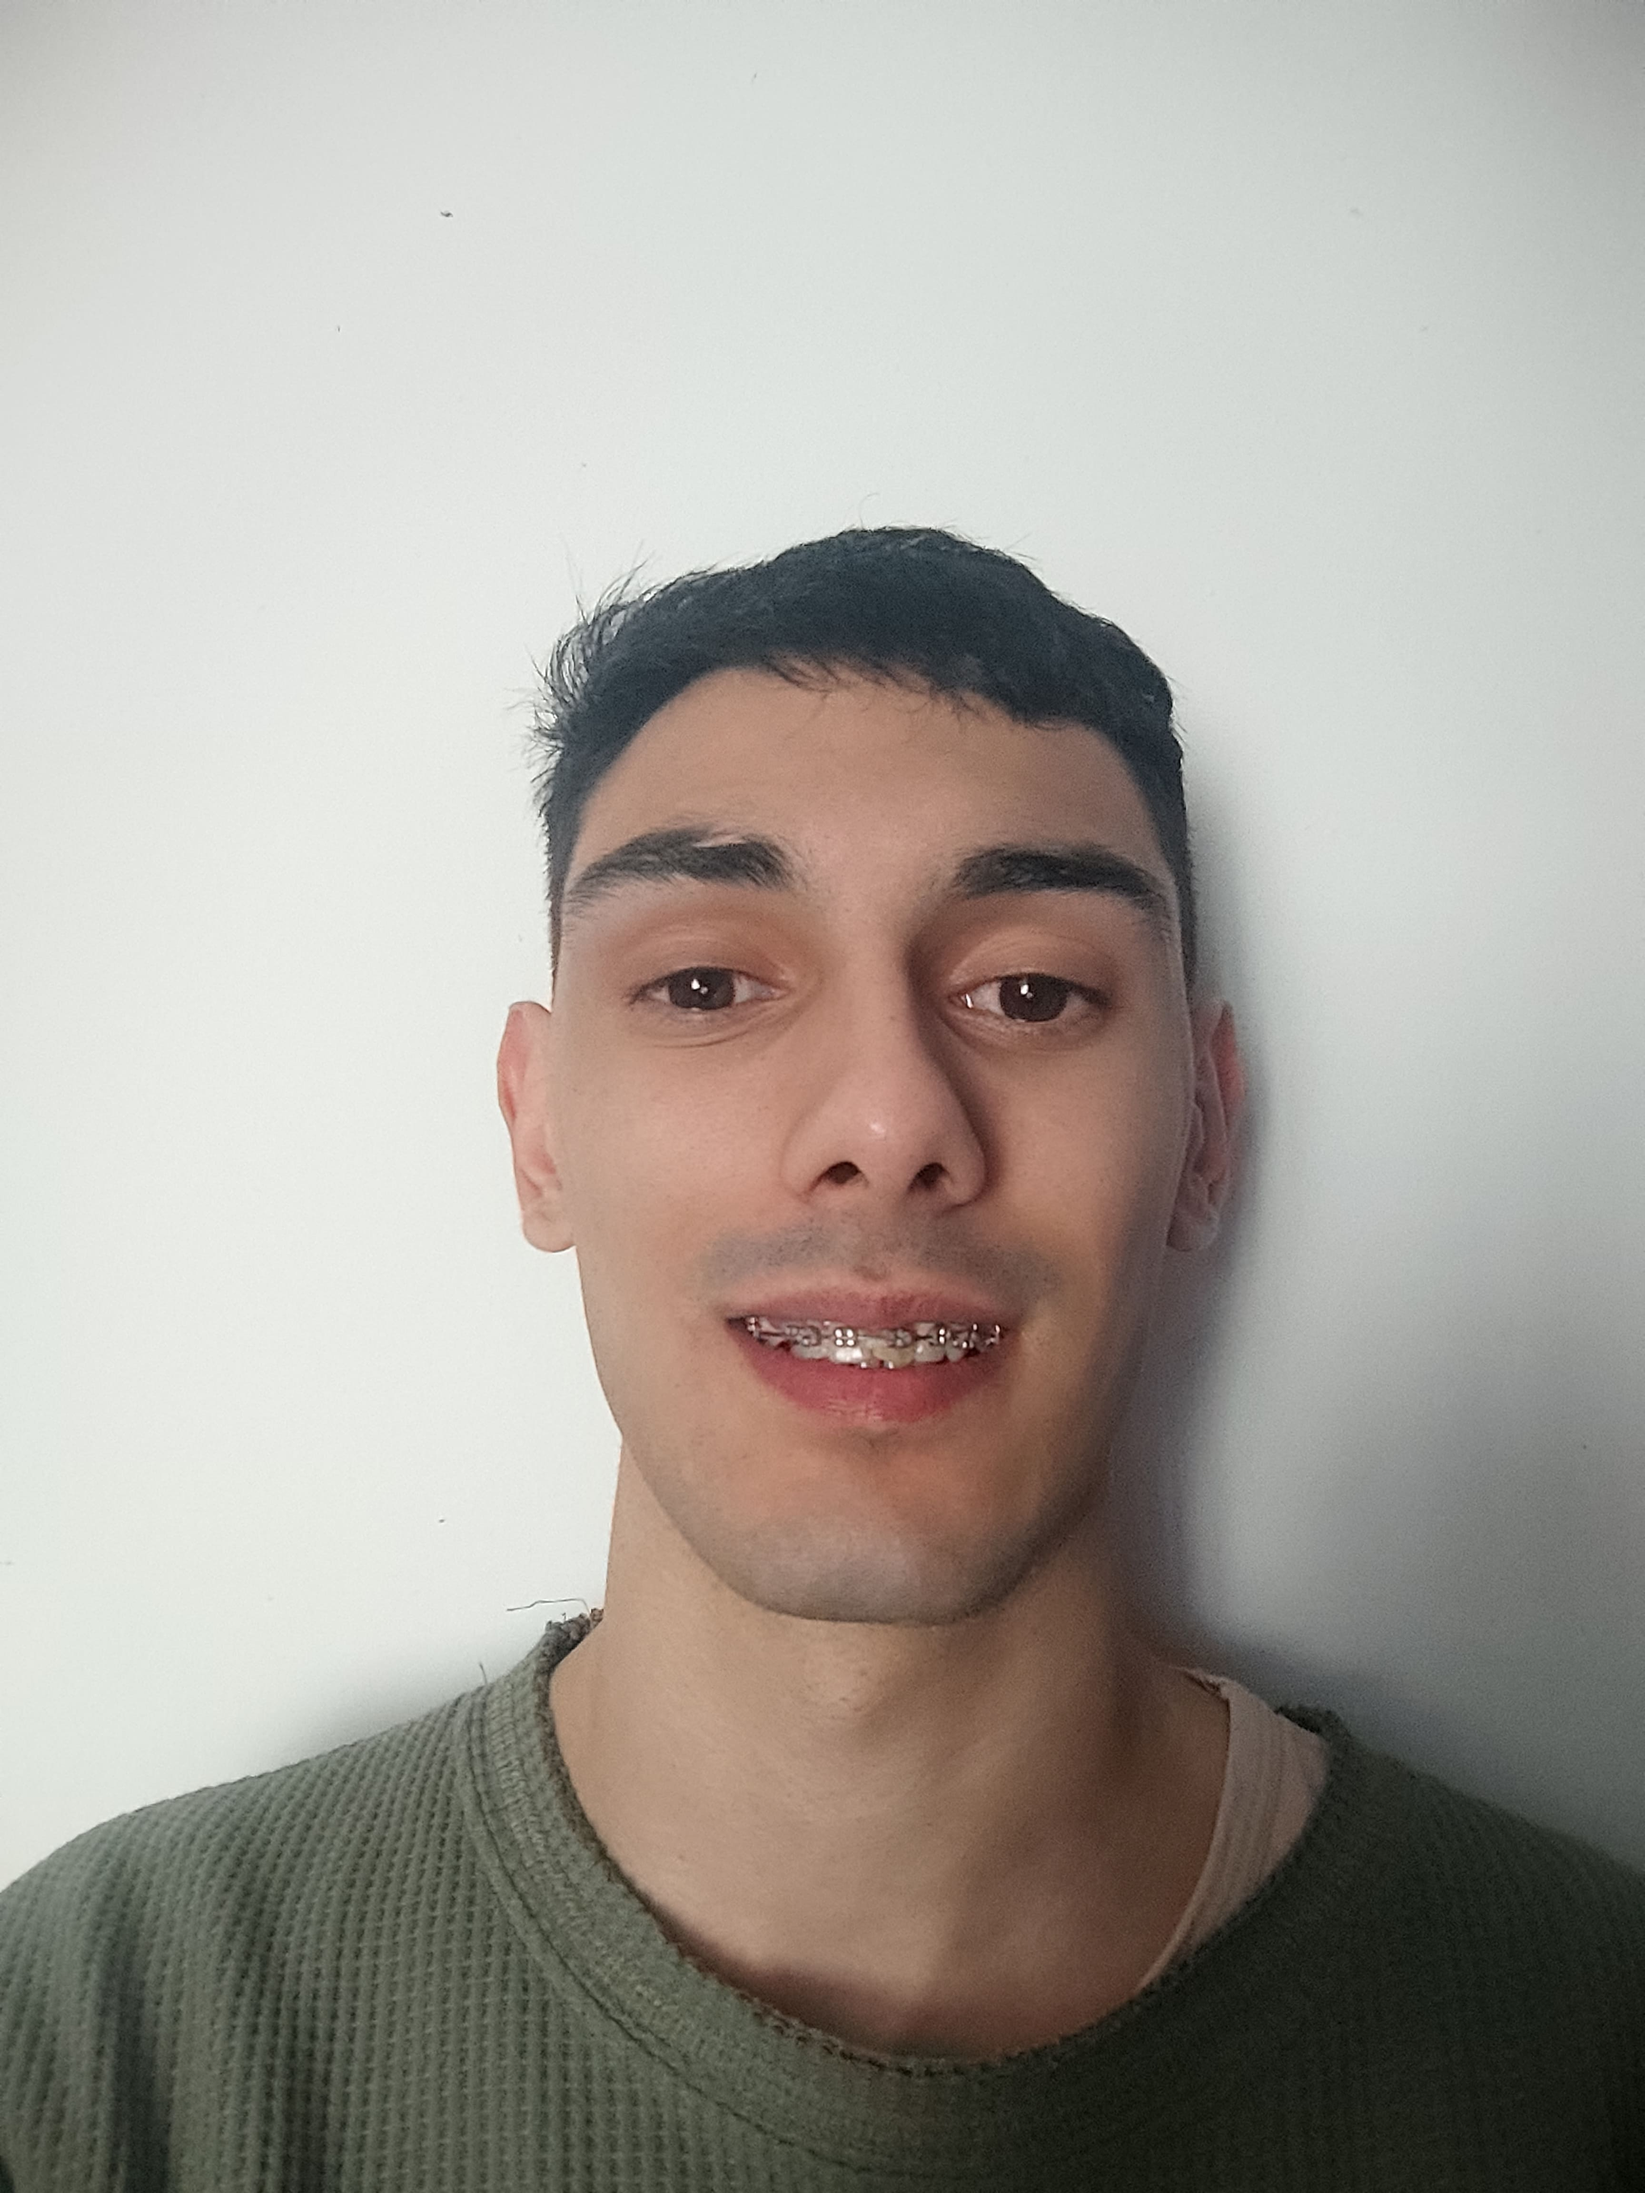
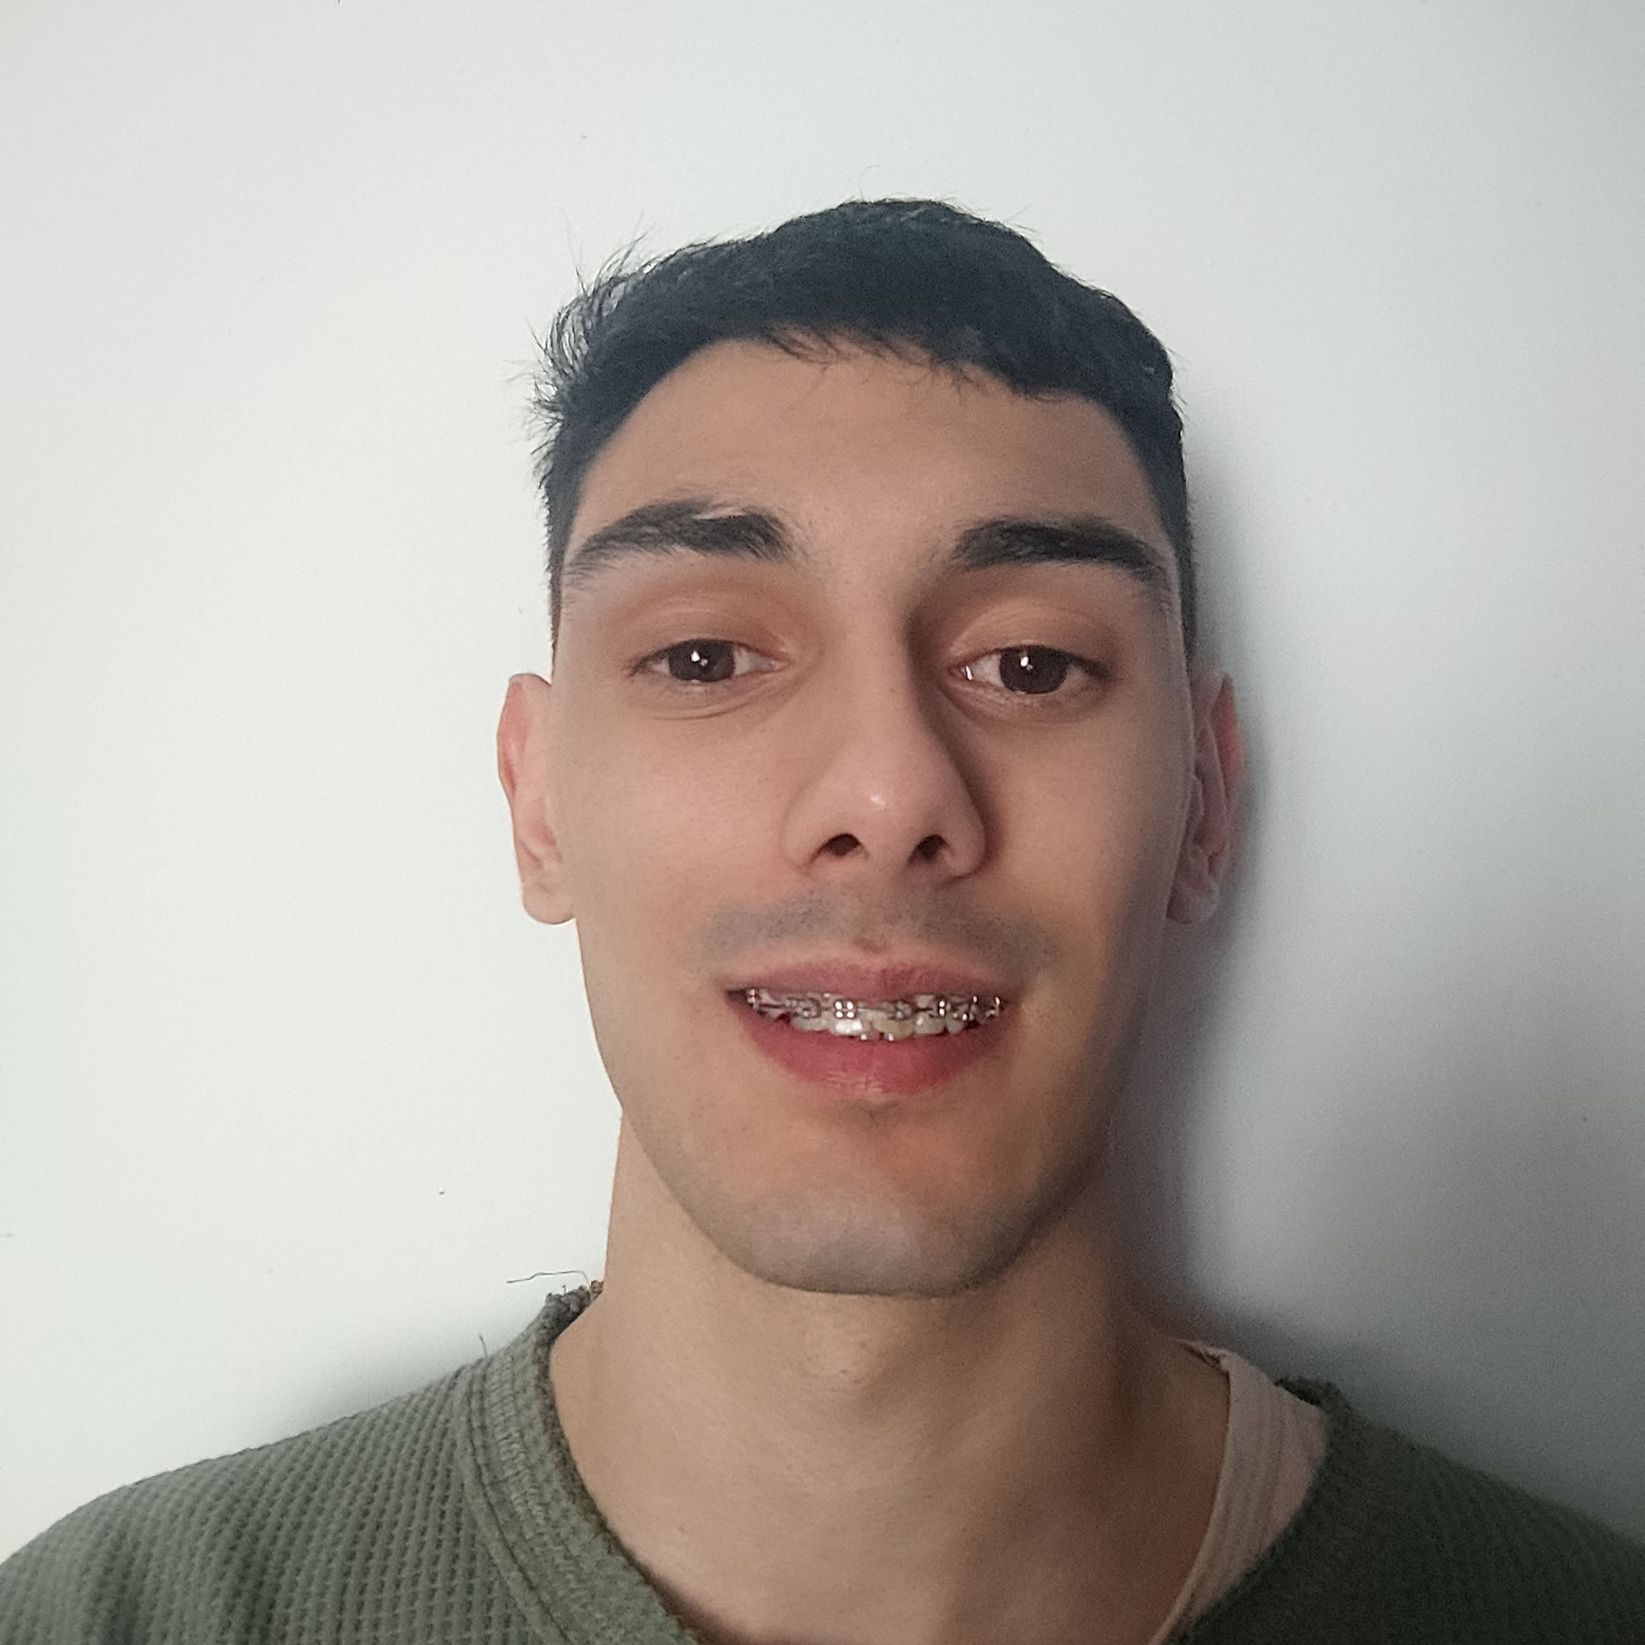
members pics added

diff --git a/src/pages/AboutUs.jsx b/src/pages/AboutUs.jsx
@@ -16,7 +16,7 @@ function AboutUs() {
       <div className={`container-fluid ${styles["coffee-background"]}`}>
         <div className="container">
           <div className="row align-items-center py-5">
-            <div className="col-lg-8 col-md-12 text-white">
+            <div className="col-lg-7 col-md-12 text-white">
               <h2 className={`${styles["header-title"]}`}>
                 Sobre este Proyecto
               </h2>
@@ -267,7 +267,7 @@ function AboutUs() {
           <Row className={`${styles["members-box"]}`}>
             <div className={styles["members"]}>
               <img
-                src="https://i.pinimg.com/564x/54/08/39/5408399b4f0e4137961ef81ee61289c9.jpg"
+                src="members/nacho.jpeg"
                 className={styles["img-fluid"]}
                 alt=""
               />
@@ -310,7 +310,7 @@ function AboutUs() {
 
             <div className={styles["members"]}>
               <img
-                src="https://i.pinimg.com/originals/e4/8b/2f/e48b2f53314783acf8b12fbf8ce3fa8e.jpg"
+                src="members/abril-pereira.jpeg"
                 className={styles["img-fluid"]}
                 alt=""
               />
@@ -327,7 +327,7 @@ function AboutUs() {
 
             <div className={styles["members"]}>
               <img
-                src="https://i.pinimg.com/originals/ff/a1/56/ffa1564f87643dcb905707ecc3aed565.jpg"
+                src="members/agustin-acosta.jpeg"
                 className={styles["img-fluid"]}
                 alt=""
               />
